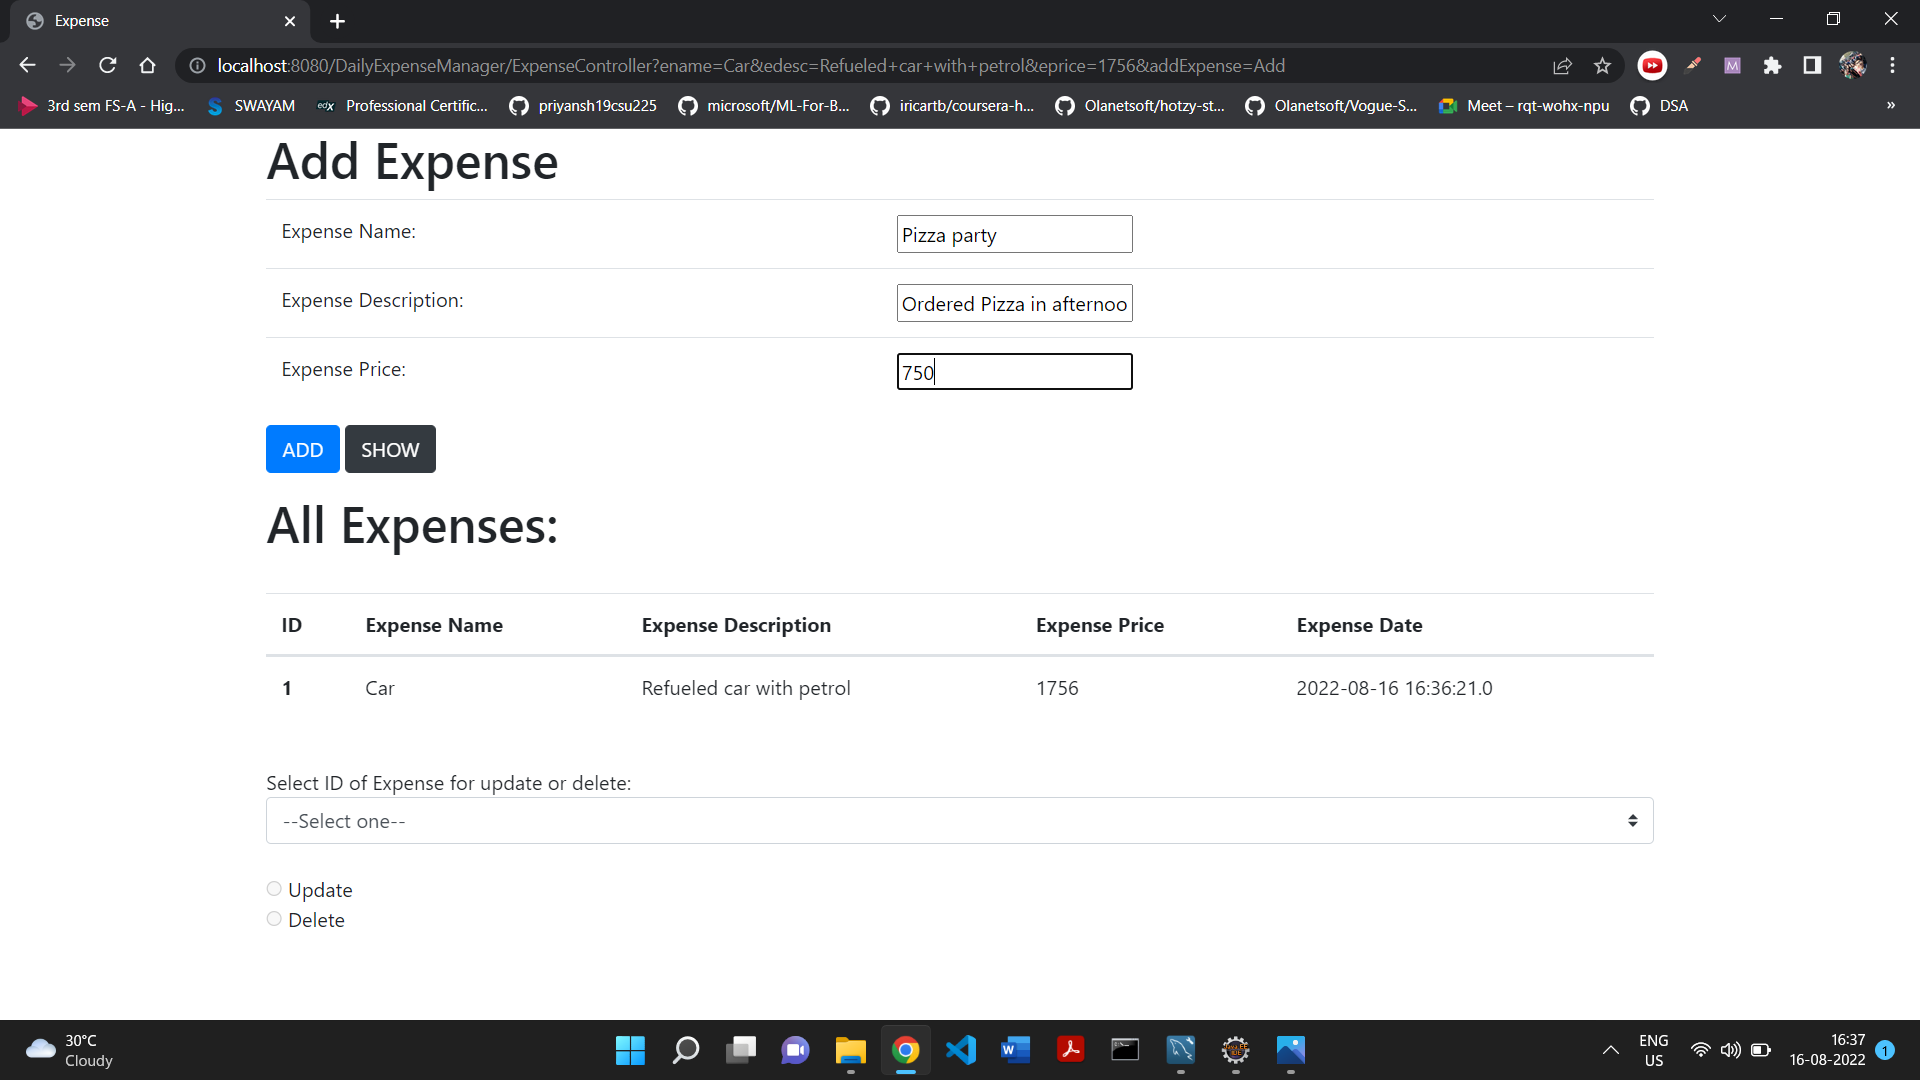
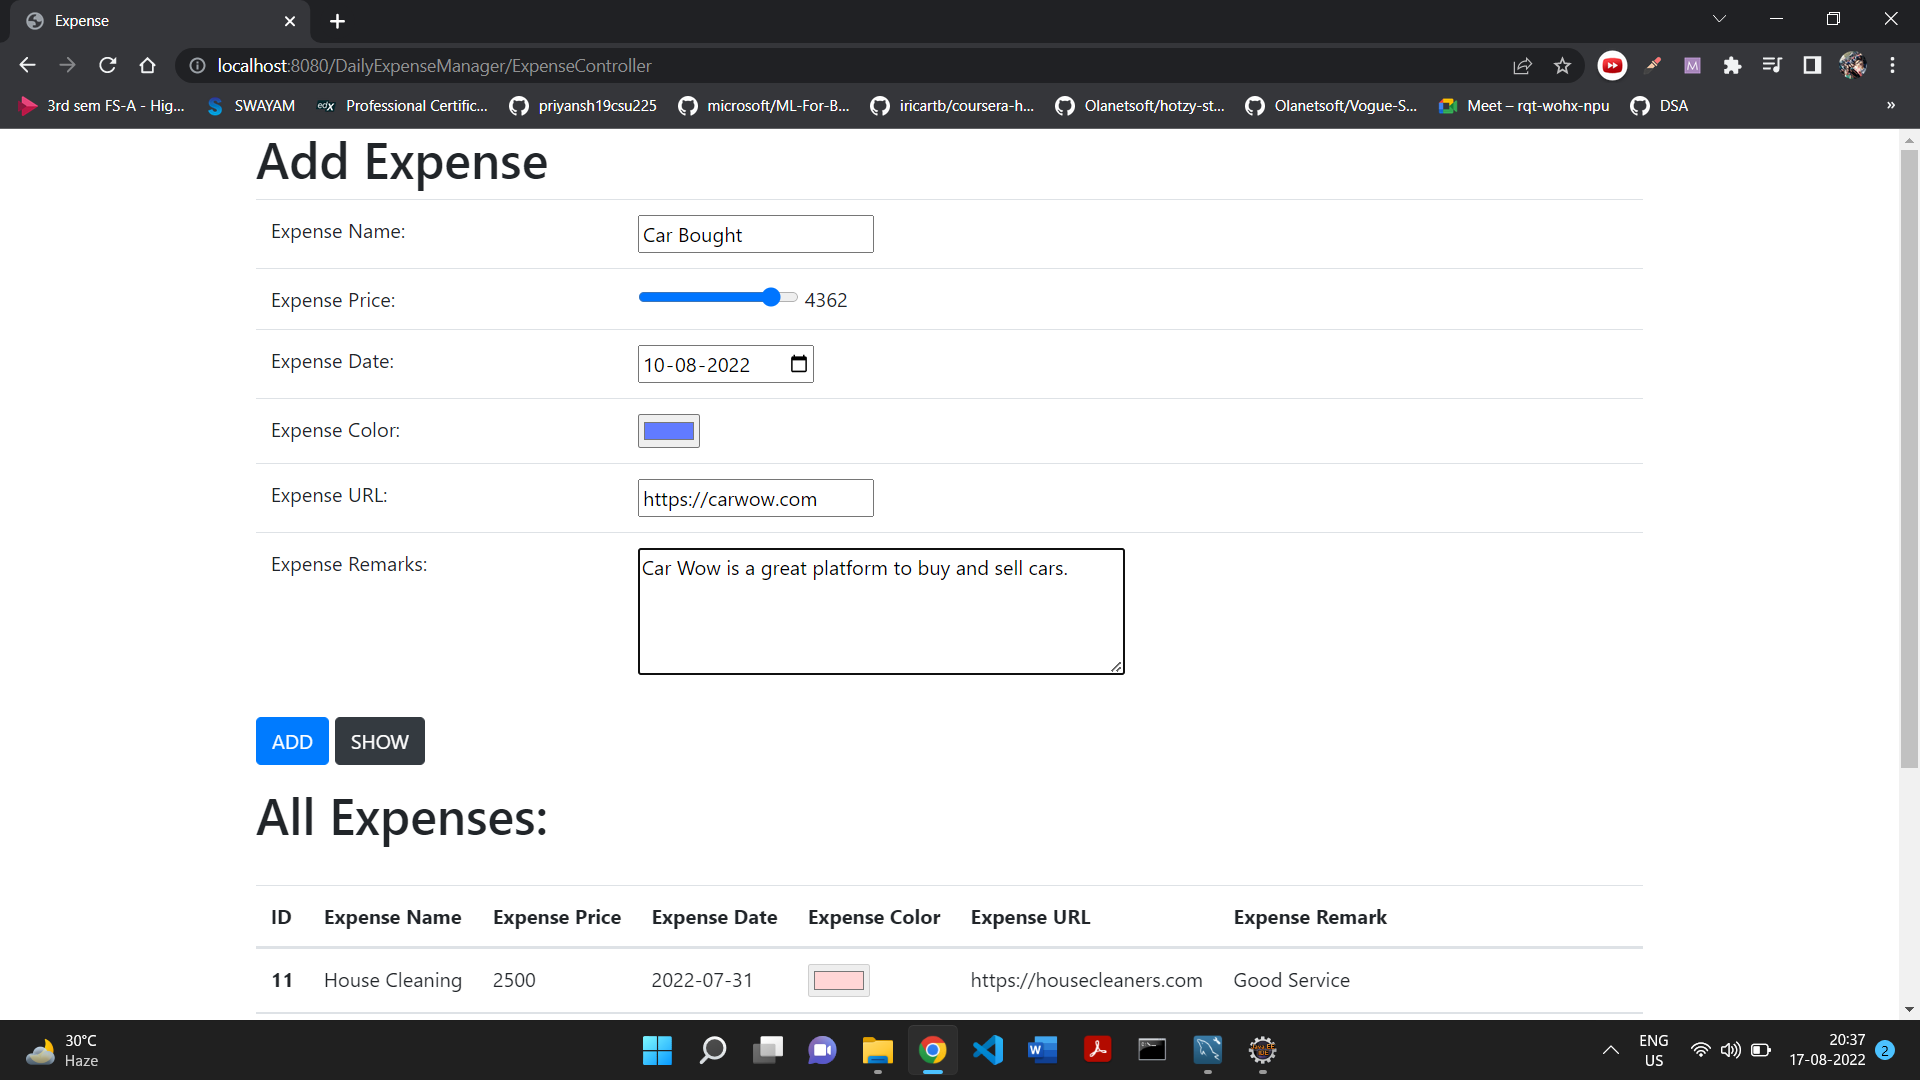
Add files via upload

diff --git a/src/main/java/Controller/ExpenseController.java b/src/main/java/Controller/ExpenseController.java
@@ -3,6 +3,8 @@ package Controller;
 
 
 import java.io.IOException;
+import java.text.ParseException;
+import java.text.SimpleDateFormat;
 import java.util.ArrayList;
 import java.util.Date;
 import java.util.List;
@@ -29,13 +31,25 @@ public class ExpenseController extends HttpServlet {
             throws ServletException, IOException {
         if(request.getParameter("addExpense")!=null){
             String ename = request.getParameter("ename");
-            String edesc = request.getParameter("edesc");
             int eprice = Integer.parseInt(request.getParameter("eprice"));
+            String edate = request.getParameter("edate");
+            String ecolor = request.getParameter("ecolor");
+            String eurl = request.getParameter("eurl");
+            String eremark = request.getParameter("eremark");
             Expense.setEname(ename);
-            Expense.setEdesc(edesc);
             Expense.setEprice(eprice);
-            Date edate = new Date();
-            Expense.setEdate(edate);
+            Expense.setEcolor(ecolor);
+            Expense.setEurl(eurl);
+            Expense.setEremark(eremark);
+            
+            Date edate1 = null;
+			try {
+				edate1 = new SimpleDateFormat("yyyy-MM-dd").parse(edate);
+			} catch (ParseException e) {
+				e.printStackTrace();
+			}
+
+            Expense.setEdate(edate1);
             ExpenseDaoImpl.saveExpense(Expense);
             List<ExpenseDetails> ExpenseList = new ArrayList();
             ExpenseList = ExpenseDaoImpl.showAllExpenses();
@@ -70,14 +84,19 @@ public class ExpenseController extends HttpServlet {
          
           if(request.getParameter("updateExpense")!=null){
              int id1 = Integer.parseInt(request.getParameter("id"));
-//             ExpenseDetails expense = ExpenseDaoImpl.showOneExpense(id1);
-//             request.setAttribute("record", expense);
-//             String enameupdate = request.getParameter("enameupdate");
              String enameupdate = request.getParameter("enameupdate");
-             String edescupdate = request.getParameter("edescupdate");
              int epriceupdate = Integer.parseInt(request.getParameter("epriceupdate"));
-             Date edateupdate = new Date();
-             ExpenseDaoImpl.updateExpense(id1, enameupdate, edescupdate, epriceupdate , edateupdate);
+             String edate = request.getParameter("edateupdate");
+             Date edateupdate = null;
+ 			try {
+ 				edateupdate = new SimpleDateFormat("yyyy-MM-dd").parse(edate);
+ 			} catch (ParseException e) {
+ 				e.printStackTrace();
+ 			}
+             String ecolorupdate = request.getParameter("ecolorupdate");
+             String eurlupdate = request.getParameter("eurlupdate");
+             String eremarkupdate = request.getParameter("eremarkupdate");
+             ExpenseDaoImpl.updateExpense(id1, enameupdate, eremarkupdate, epriceupdate , edateupdate , ecolorupdate, eurlupdate);
              List<ExpenseDetails> ExpenseList = new ArrayList();
              ExpenseList = ExpenseDaoImpl.showAllExpenses();
              request.setAttribute("ExpenseList", ExpenseList);

diff --git a/src/main/java/pojo/ExpenseDetails.java b/src/main/java/pojo/ExpenseDetails.java
@@ -16,11 +16,31 @@ public class ExpenseDetails implements Serializable {
     int id;
     
     String ename;
-    String edesc;
+    String eremark;
     int eprice;
-    @Temporal(value=TemporalType.TIMESTAMP)
+    @Temporal(value=TemporalType.DATE)
     Date edate;
+    String ecolor;
+    String eurl;
 
+
+	
+
+	public String getEcolor() {
+		return ecolor;
+	}
+
+	public void setEcolor(String ecolor) {
+		this.ecolor = ecolor;
+	}
+
+	public String getEurl() {
+		return eurl;
+	}
+
+	public void setEurl(String eurl) {
+		this.eurl = eurl;
+	}
 
 	public Date getEdate() {
 		return edate;
@@ -46,12 +66,12 @@ public class ExpenseDetails implements Serializable {
         this.ename = ename;
     }
 
-	public String getEdesc() {
-		return edesc;
+	public String getEremark() {
+		return eremark;
 	}
 
-	public void setEdesc(String edesc) {
-		this.edesc = edesc;
+	public void setEremark(String eremark) {
+		this.eremark = eremark;
 	}
 
 	public int getEprice() {
@@ -61,7 +81,7 @@ public class ExpenseDetails implements Serializable {
 	public void setEprice(int eprice) {
 		this.eprice = eprice;
 	}
-
+	
   
     
     

diff --git a/src/main/java/daoImpl/ExpenseDaoImpl.java b/src/main/java/daoImpl/ExpenseDaoImpl.java
@@ -38,14 +38,16 @@ public class ExpenseDaoImpl implements ExpenseDao {
     }
     
     @Override
-    public void updateExpense(int id, String ename, String edesc , int eprice , Date edate ) {
+    public void updateExpense(int id, String ename, String eremark , int eprice , Date edate , String ecolor , String eurl) {
         Session session = HibernateUtil.getSessionFactory().openSession();
         Transaction transaction = session.beginTransaction();
         ExpenseDetails expdetails = session.load(ExpenseDetails.class, id);
         expdetails.setEname(ename);
-        expdetails.setEdesc(edesc);
+        expdetails.setEremark(eremark);
         expdetails.setEprice(eprice);
         expdetails.setEdate(edate);
+        expdetails.setEcolor(ecolor);
+        expdetails.setEurl(eurl);
         session.update(expdetails);
         transaction.commit();
         session.close();  

diff --git a/src/main/java/dao/ExpenseDao.java b/src/main/java/dao/ExpenseDao.java
@@ -9,7 +9,7 @@ public interface ExpenseDao {
     
     public void saveExpense (ExpenseDetails Expense);
     public List<ExpenseDetails> showAllExpenses();
-    public void updateExpense (int id, String ename, String edesc , int eprice , Date edate);
+    public void updateExpense (int id, String ename, String eremark , int eprice , Date edate , String ecolor, String eurl);
     public void deleteExpense (ExpenseDetails Expense);
 	public ExpenseDetails showOneExpense(int id);
     
